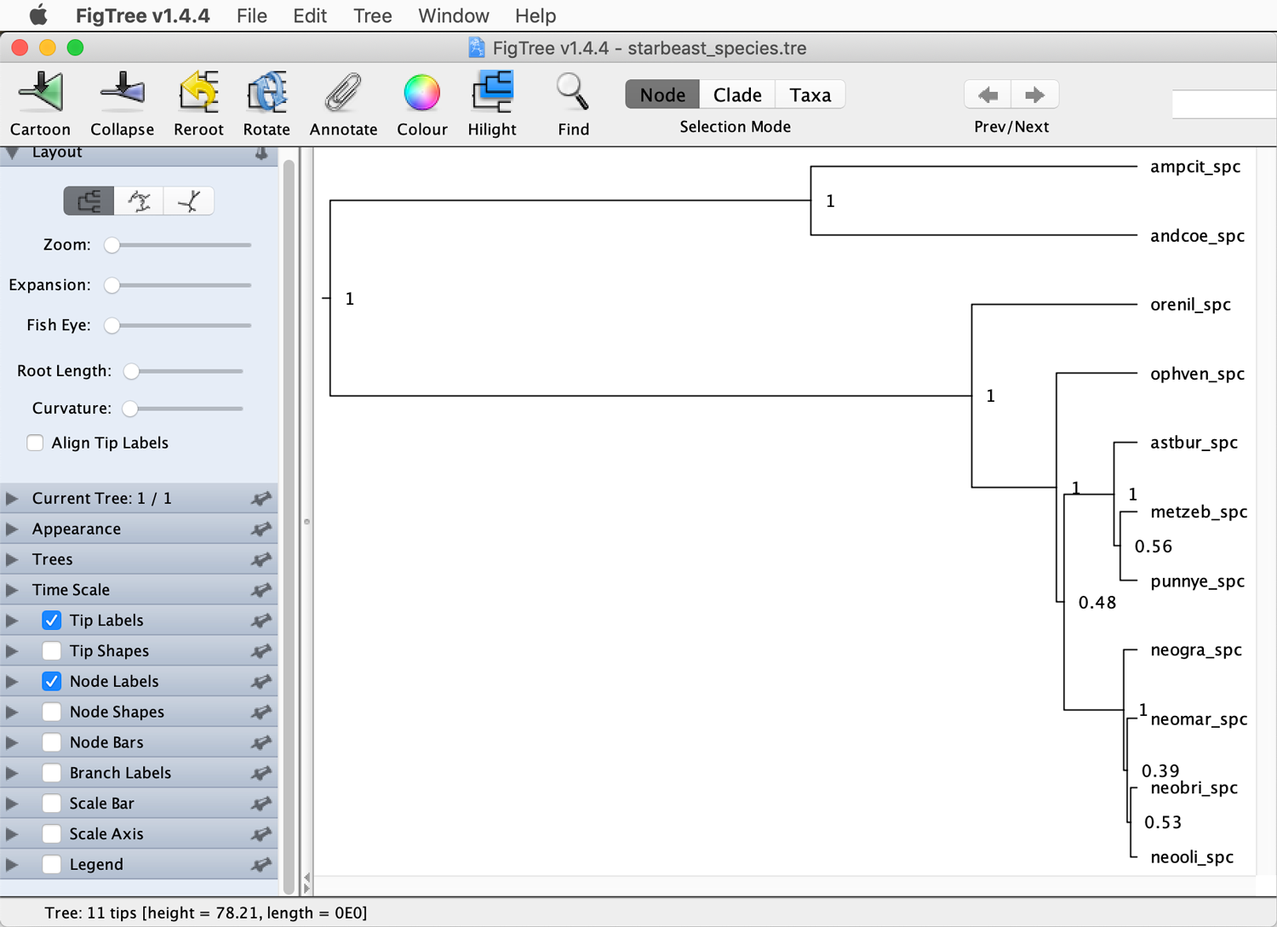
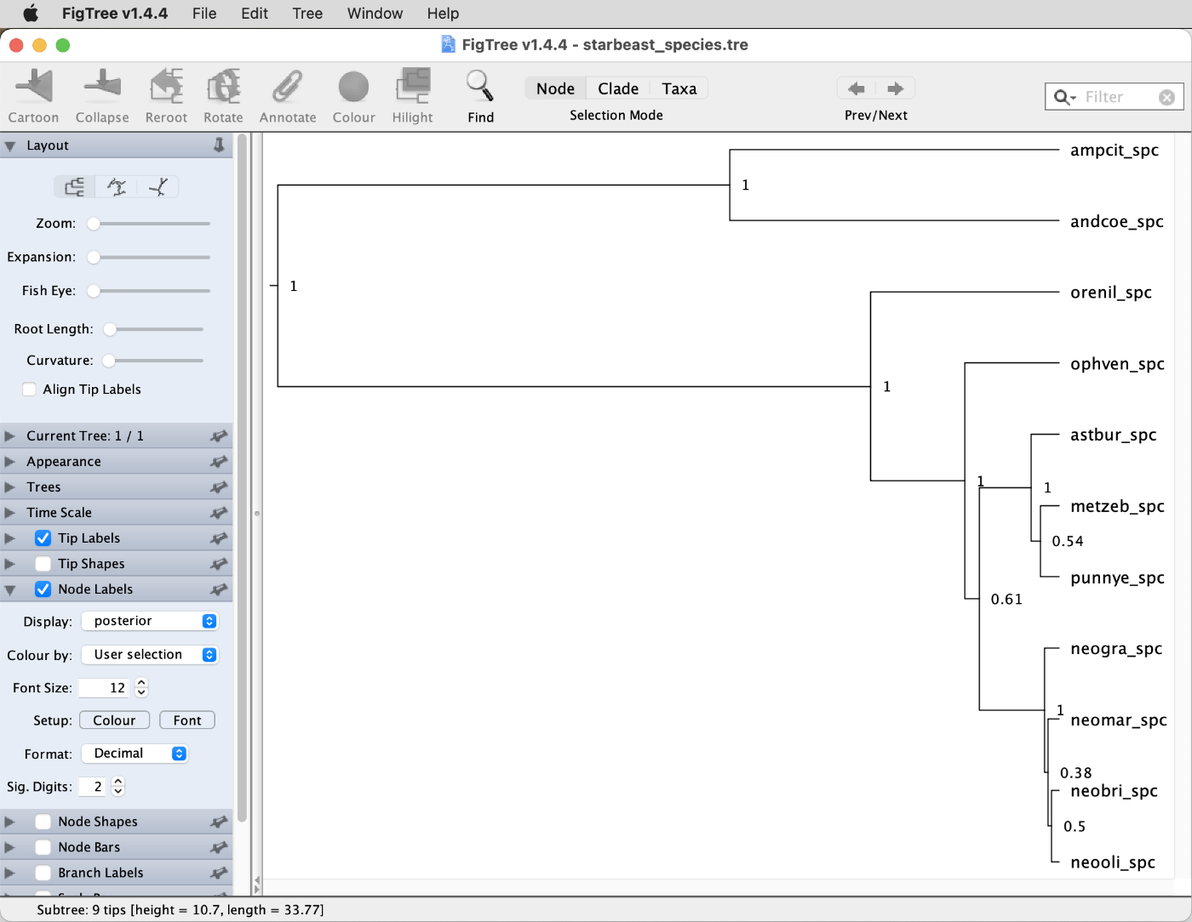
small updates

diff --git a/species_tree_inference_with_snp_data/README.md b/species_tree_inference_with_snp_data/README.md
@@ -18,12 +18,12 @@ Most methods for species-tree inference with the multi-species coalescent model 
 <a name="outline"></a>
 ## Outline
 
-In this tutorial I am going to present how to quickly infer the topology of the species tree from SNP data with the multi-species-coalescent model implemented in the software [SVDQuartets](https://www.asc.ohio-state.edu/kubatko.2/software/SVDquartets/) ([Chifman and Kubatko 2014](https://doi.org/10.1093/bioinformatics/btu530)), and how to assess node support with bootstrapping. The SNP dataset will first be filtered with [bcftools](http://www.htslib.org/doc/bcftools.html) ([Li 2011](https://doi.org/10.1093/bioinformatics/btr509)).
+In this tutorial I am going to present how to quickly infer the topology of the species tree from SNP data with the multi-species-coalescent model implemented in the software [SVDQuartets](https://www.asc.ohio-state.edu/kubatko.2/software/SVDquartets/) ([Chifman and Kubatko 2014](https://doi.org/10.1093/bioinformatics/btu530)), and how to assess node support with bootstrapping. The SNP dataset will first be filtered with [BCFtools](http://www.htslib.org/doc/bcftools.html) ([Li 2011](https://doi.org/10.1093/bioinformatics/btr509)).
 
 <a name="dataset"></a>
 ## Dataset
 
-The SNP data used in this tutorial (and in some of the following tutorials) is part of a recently published genomic dataset for Lake Tanganyika cichlid fishes ([Ronco et al. 2021](https://doi.org/10.1038/s41586-020-2930-4)). In this dataset, two individuals (a male and a female) of each cichlid species of Lake Tanganyika have been sequenced on the Illumina platform with a coverage around 10&times;, and read data of all sequenced individuals have been mapped against the Nile tilapia (*Oreochromis niloticus*) genome assembly ([Conte et al. 2017](https://doi.org/10.1186/s12864-017-3723-5)), which has been assembled at the chromosome level. Variant calling was then performed with the [Genome Analysis Toolkit (GATK)](https://software.broadinstitute.org/gatk/) ([McKenna et al. 2010](https://doi.org/10.1101/gr.107524.110)), and several filtering steps have been applied to remove low-quality genotypes and all indel variation. To reduce computational demands, the part of this dataset used in this tutorial is limited to SNP variation mapped to a single chromosome of Nile tilapia, chromosome 5, and it includes the genotypes of a set of 28 individuals of 14 different cichlid species. Most of these species represent the group that has already been included in the tutorial [Bayesian Species-Tree Inference](../bayesian_species_tree_inference/README.md) and [Local Assembly](../local_assembly/README.md), fishes of the genus *Neolamprologus* within the Lake Tanganyika tribe Lamprologini. Below is a list of all individuals and species included in the dataset of this tutorial.
+The SNP data used in this tutorial (and in some of the following tutorials) is part of a recently published genomic dataset for Lake Tanganyika cichlid fishes ([Ronco et al. 2021](https://doi.org/10.1038/s41586-020-2930-4)). In this dataset, two individuals (a male and a female) of each cichlid species of Lake Tanganyika have been sequenced on the Illumina platform with a coverage around 10&times;, and read data of all sequenced individuals have been mapped against the Nile tilapia (*Oreochromis niloticus*) genome assembly ([Conte et al. 2017](https://doi.org/10.1186/s12864-017-3723-5)), which has been assembled at the chromosome level. Variant calling was then performed with the [Genome Analysis Toolkit (GATK)](https://software.broadinstitute.org/gatk/) ([McKenna et al. 2010](https://doi.org/10.1101/gr.107524.110)), and several filtering steps have been applied to remove low-quality genotypes and all indel variation. As in tutorial [Whole-Genome Alignment](whole_genome_alignment/README.md), the dataset in this tutorial is limited to SNP variation mapped to a single chromosome of Nile tilapia, chromosome 5, to reduce computational demands. Here, this dataset includes the genotypes of a set of 28 individuals from 14 different cichlid species. Most of these species represent the group that has already been the focus of the tutorials [Bayesian Species-Tree Inference](../bayesian_species_tree_inference/README.md) and [Whole-Genome Alignment](whole_genome_alignment/README.md), fishes of the genus *Neolamprologus* within the Lake Tanganyika tribe Lamprologini. Below is a list of all individuals and species included in the dataset of this tutorial.
 
 <center>
 
@@ -69,13 +69,13 @@ This tutorial requires **FigTree** to be installed. Details about the installati
 
 The following tool is required additionally:
 
-* **PAUP\*:** The software [PAUP\*](http://paup.phylosolutions.com) is a general-utility program for phylogenetic inference into which the SVDQuartets method, allowing the inference of species trees from SNP data, has been implemented. PAUP\* is available as a Graphical User Interface (GUI) version, which may be easier to use for those not familiar with the program yet, but can not be used on Saga. If you prefer to use the GUI version of PAUP\*, you would thus need to install it on your local computer, and you would need download the input file for PAUP\* from Saga. Unfortunately, this GUI version does not run on MacOS 10.15 (Catalina) or newer, but on other systems, the program can be installed using the instructions and precompiled versions available on [http://phylosolutions.com/paup-test/](http://phylosolutions.com/paup-test/).
+* **PAUP\*:** The software [PAUP\*](http://paup.phylosolutions.com) is a general-utility program for phylogenetic inference into which the SVDQuartets method, allowing the inference of species trees from SNP data, has been implemented. PAUP\* is available as a graphical user interface (GUI) version, which may be easier to use for those not familiar with the program yet, but cannot be used on Saga. If you prefer to use the GUI version of PAUP\*, you would thus need to install it on your own computer, and you would need download the input file for PAUP\* from Saga. Unfortunately, this GUI version does not run on MacOS 10.15 (Catalina) or newer, but on other systems, the program can be installed using the instructions and precompiled versions available on [http://phylosolutions.com/paup-test/](http://phylosolutions.com/paup-test/).
 
 
 <a name="filtering"></a>
 ## SNP filtering
 
-The dataset of SNP variation for the above-listed 28 individuals of 14 Lake Tanganyika cichlid species is stored in in compressed variant-call format (VCF) in file `NC_031969.f5.sub1.vcf.gz`. To identify the SNPs most suitable for phylogenetic analysis, we will filter the information from this file with the program bcftools.
+The dataset of SNP variation for the above-listed 28 individuals of 14 Lake Tanganyika cichlid species is stored in compressed variant-call format (VCF) in file `NC_031969.f5.sub1.vcf.gz`. To identify the SNPs most suitable for phylogenetic analysis, we will filter the information from this file with the program BCFtools.
 
 * Add the file `NC_031969.f5.sub1.vcf.gz` to your current directory on Saga, either by copying it from `/cluster/projects/nn9458k/phylogenomics/week2/data` or by downloading it from GitHub, using one of the following two commands:
 
@@ -85,22 +85,21 @@ The dataset of SNP variation for the above-listed 28 individuals of 14 Lake Tang
 	
 		wget https://github.com/ForBioPhylogenomics/tutorials/raw/main/week2_data/NC_031969.f5.sub1.vcf.gz
 
-* As mentioned above, one of the species included in the dataset, *Neolamprologus cancellatus*, is presumed to be a hybrid species. As hybridization would represent a violation of the multi-species-coalescent model, we will here exclude the two individuals of this species ("LJC9" and "LJD1") from the dataset. To exclude the two individuals from the VCF file with bcftools, we can use the following commands:
+* As mentioned above, one of the species included in the dataset, *Neolamprologus cancellatus*, is presumed to be a hybrid species. As hybridization would represent a violation of the multi-species-coalescent model, we will here exclude the two individuals of this species ("LJC9" and "LJD1") from the dataset. To exclude the two individuals from the VCF file with BCFtools, we can use the following commands:
 
 		module purge
 		module load BCFtools/1.12-GCC-10.2.0
 		srun --ntasks=1 --mem-per-cpu=1G --time=00:01:00 --account=nn9458k --pty bcftools view -s ^LJC9,LJD1 -O z -o NC_031969.f5.sub2.vcf.gz NC_031969.f5.sub1.vcf.gz
 
-	In the above command, the option `-s` specifies a list of individual IDs to be included or excluded, and the `^` character at the beginning of this list specifies that the taxa should be excluded rather than included. In addition, `-O z` specifies that the output should be written in compressed VCF format, and `-o` specifies the name of the output file. All options of bcftools are described in the [bcftools online manual](http://www.htslib.org/doc/bcftools.html), and you can quickly access the general help text of bcftools or the more specific help text for its `view` command by typing only `bcftools` or `bcftools view`, respectively.
+	In the above command, the option `-s` specifies a list of individual IDs to be included or excluded, and the `^` character at the beginning of this list specifies that the taxa should be excluded rather than included. In addition, `-O z` specifies that the output should be written in compressed VCF format, and `-o` specifies the name of the output file. All options of BCFtools are described in the [BCFtools online manual](http://www.htslib.org/doc/bcftools.html), and you can quickly access the general help text of BCFtools or the more specific help text for its `view` command by typing only `bcftools` or `bcftools view`, respectively.
 	
 * To learn a bit about the dataset, you could browse through the first lines of the VCF file with the following command (without `srun`):
 
 		bcftools view NC_031969.f5.sub2.vcf.gz | less -S
-	
-		
-	As shown in the next screenshot, this command should print the very first part of the header of the VCF file, marked by the double "#" symbol at the beginning of each line. You'll see that the very first line specifies the version of the VCF file format, that other lines beginning with "ALT", "FILTER", "FORMAT", and "INFO" describe the annotation of the records and genotypes, and that the lengths of various contigs are defined. Because all variation of this file was mapped to the tilapia genome assembly, these "contigs" represent the chromosomes of the Nile tilapia genome.<p align="center"><img src="img/terminal1.png" alt="Terminal" width="700"></p>
 
-* If you scroll down a few lines, you should see the information shown in the screenshot below. You should see that a single line begins with a single "#" symbol; this line specifies the content of each column in the table below it (note that the tab-delimited columns may be shifted between this line and the lines below). Towards the right on that line, you'll see the first of the individual IDs ("IZA1", "IZC5", "AUE7",...), but the corresponding genotypes may not be visible yet in the lines below it because the fields with format information (the first of which begins with "AC=2;AF=0.004695;AN=36;BaseQRankSum=1.085;...") extend to the right end of the screen. These fields contain some information that we will use for filtering, including the total number of called alleles ("AN") and the total number of called non-reference alleles ("AC").<p align="center"><img src="img/terminal2.png" alt="Terminal" width="700"></p>
+	As shown in the next screenshot, this command should print the very first part of the header of the VCF file, marked by the double "#" symbol at the beginning of each line. You'll see that the very first line specifies the version of the VCF file format, that other lines beginning with "ALT", "FILTER", "FORMAT", and "INFO" describe the annotation of the records and genotypes, and that the lengths of various contigs are defined. Because all variation of this file was mapped to the Nile tilapia genome assembly, these "contigs" represent the Nile tilapia chromosomes.<p align="center"><img src="img/terminal1.png" alt="Terminal" width="700"></p>
+
+* If you scroll down a few lines, you'll find the information shown in the screenshot below. You should see that a single line begins with only one "#" symbol; this line specifies the content of each column in the table below it (note that the tab-delimited columns may appear shifted between this line and the lines below). Towards the right on that line, you'll see the first of the individual IDs ("IZA1", "IZC5", "AUE7",...), but the corresponding genotypes may not be visible yet in the lines below it because the fields with format information (the first of which begins with "AC=2;AF=0.004695;AN=36;BaseQRankSum=1.085;...") extend to the right end of the screen. These fields contain some information that we will use for filtering, including the total number of called alleles ("AN") and the total number of called non-reference alleles ("AC").<p align="center"><img src="img/terminal2.png" alt="Terminal" width="700"></p>
 	
 	**Question 1:** How far, approximately, is the spacing between SNPs? [(see answer)](#q1)
 	
@@ -112,7 +111,7 @@ The dataset of SNP variation for the above-listed 28 individuals of 14 Lake Tang
 
 		bcftools view -H NC_031969.f5.sub2.vcf.gz | wc -l
 				
-* We will now generate a reduced version of the dataset that includes only the most suitable SNPs for phylogenetic analysis. This means that we exclude all sites at which no alternative alleles are called for any of the individuals ("AC==0"), all sites at which only alternative alleles are called ("AC==AN"), and sites at which the proportion of missing data is greater than 20% ("F_MISSING > 0.2"). At the same time, we will ensure that only bi-allelic SNPs are included in the reduced dataset by using the bcftools options `-m2` and `-M2` which set both the minimum (`-m`) and maximum (`-M`) number of alleles to 2. Thus, use the following bcftools command to write the reduced dataset to a new file named `NC_031969.f5.sub3.vcf.gz`:
+* We will now generate a reduced version of the dataset that includes only the most suitable SNPs for phylogenetic analysis. This means that we exclude all sites at which no alternative alleles are called for any of the individuals ("AC==0"), all sites at which only alternative alleles are called ("AC==AN"), and sites at which the proportion of missing data is greater than 20% ("F_MISSING > 0.2"). At the same time, we will ensure that only bi-allelic SNPs are included in the reduced dataset by using the BCFtools options `-m2` and `-M2` which set both the minimum (`-m`) and maximum (`-M`) number of alleles to 2. Thus, use the following BCFtools command to write the reduced dataset to a new file named `NC_031969.f5.sub3.vcf.gz`:
 
 		srun --ntasks=1 --mem-per-cpu=1G --time=00:01:00 --account=nn9458k --pty bcftools view -e 'AC==0 || AC==AN || F_MISSING > 0.2' -m2 -M2 -O z -o NC_031969.f5.sub3.vcf.gz NC_031969.f5.sub2.vcf.gz
 
@@ -120,11 +119,11 @@ The dataset of SNP variation for the above-listed 28 individuals of 14 Lake Tang
 
 	**Question 2:** How many SNPs were removed in the last step? [(see answer)](#q2)
 		
-* As we've seen above, some SNPs in file `NC_031969.f5.sub2.vcf.gz` were too close to each other on the chromosome to be considered independent markers. Some of these might have been removed in the last filtering step. Nevertheless, to ensure that no SNPs are closer to each other than a minimum distance of 100 bp, we can use the `prune` function of bcftools:
+* As we've seen above, some SNPs in file `NC_031969.f5.sub2.vcf.gz` were too close to each other on the chromosome to be considered independent markers. Some of these might have been removed in the last filtering step. Nevertheless, to ensure that no SNPs are closer to each other than a minimum distance of 100 bp, we can use the `prune` function of BCFtools:
 	
 		srun --ntasks=1 --mem-per-cpu=1G --time=00:01:00 --account=nn9458k --pty bcftools +prune -w 100bp -n 1 -N 1st -o NC_031969.f5.sub4.vcf NC_031969.f5.sub3.vcf.gz
 
-The filtered dataset in file `NC_031969.f5.sub4.vcf` should now contain 65,325 SNPs. Thus, a bit more than every second SNP have been removed in this step.
+The filtered dataset in file `NC_031969.f5.sub4.vcf` should now contain 65,325 SNPs. Thus, a bit more than every second SNP have been removed in this last step.
 		
 <a name="svdquartets"></a>
 ## Species-tree inference with SVDQuartets
@@ -153,9 +152,9 @@ The dataset is now sufficiently filtered for analysis with SVDQuartets. However,
 		
 	Note that heterozygous sites have been coded with [IUPAC ambiguity codes](https://en.wikipedia.org/wiki/Nucleic_acid_notation), so that for example a "C/T" allele has been replace with the letter "Y". While many phylogenetic algorithms can not deal with this ambiguity information, SVDQuartets will automatically recognize that both alleles are present heterozygously in the individual and will consider both in its calculations of the SVD score.
 
-* If you have the PAUP\* GUI installed on your local computer, you can use the following steps to run a first SVDQuartets analysis:
+* If you have the PAUP\* GUI installed on your own computer, you can use the following steps to run a first SVDQuartets analysis (if not, scroll down to the next black bullet point):
 
-	* Download file `NC_031969.f5.sub4.nex` from Saga to your local computer using `scp`.
+	* Download file `NC_031969.f5.sub4.nex` from Saga to your own computer using `scp`.
 
 	* Open the Nexus file `NC_031969.f5.sub4.nex` in PAUP\*, and make sure that the option "Execute" is set in the opening dialog, as shown in the next screenshot.<p align="center"><img src="img/paup1.png" alt="PAUP\*" width="700"></p>
 
@@ -197,11 +196,13 @@ The dataset is now sufficiently filtered for analysis with SVDQuartets. However,
 
 			svdQuartets
 
+		This analysis should only take a few seconds, and then output the tree on the screen.
+
 	* Quit the interactive PAUP\* session with `quit`.
 
 	**Question 3:** Do the two individuals of each species cluster monophyletically? Use the table in the [Dataset](#dataset) section to find out. [(see answer)](#q3)
 
-* In a second analysis with SVDQuartets, we are going to specify which individuals come from the same species, so that SVDQuartets can use this information to estimate a tree with species as taxa. To specify this information, write the following text to a file named `taxpartitions.txt` (either on your local computer or on Saga, depending on whether you use the PAUP\* GUI or its command-line version): 
+* In a second analysis with SVDQuartets, we are going to specify which individuals come from the same species, so that SVDQuartets can use this information to estimate a tree with species as taxa. To specify this information, write the following text to a file named `taxpartitions.txt` (either on your own computer or on Saga, depending on whether you use the PAUP\* GUI or its command-line version): 
 		
 		BEGIN SETS;
 			TAXPARTITION SPECIES =
@@ -224,7 +225,7 @@ The dataset is now sufficiently filtered for analysis with SVDQuartets. However,
 		
 * The alignment file `NC_031969.f5.sub4.nex` and the file `taxpartitions.txt` that was written in the last step then need to be combined into a single file in Nexus format.
 
-	* If you do this on your local computer, just open both files in a text editor and copy-paste the content of file `taxpartitions.txt` at the end of file `NC_031969.f5.sub4.nex`; then save this as a new file named `NC_031969.f5.sub4.parts.nex`.
+	* If you do this on your own computer, just open both files in a text editor and copy-paste the content of file `taxpartitions.txt` at the end of file `NC_031969.f5.sub4.nex`; then save this as a new file named `NC_031969.f5.sub4.parts.nex`.
 
 	* If you do this on Saga, use `cat` to combine the two files:
 
@@ -262,6 +263,8 @@ The dataset is now sufficiently filtered for analysis with SVDQuartets. However,
 	* Start the SVDQuartets analysis again with PAUP\*'s `svdQuartets` command
 	
 			svdQuartets taxpartition=SPECIES bootstrap=standard nthreads=6
+			
+		Due to the invoked bootstrapping, this analysis may now take a few minutes.
 
 	* Save the inferred tree with branch labels:
 
@@ -269,13 +272,15 @@ The dataset is now sufficiently filtered for analysis with SVDQuartets. However,
 
 	* Quit the interactive PAUP\* session with `quit`.
 
-	* Download the tree file `NC_031969.f5.sub4.parts.tre` from Saga to your local computer using `scp`.
+	* Download the tree file `NC_031969.f5.sub4.parts.tre` from Saga to your own computer using `scp`.
+
+* When you open the species tree inferred with SVDQuartets in FigTree, it should appear as shown in the next screenshot.<p align="center"><img src="img/figtree1.png" alt="PAUP\*" width="700"></p>
 
 	**Question 4:** Does the species tree inferred by SVDQuartets appear reliable? [(see answer)](#q4)
 	
 	**Question 5:** Is this species tree concordant with the tree generated based on the multi-species coalescent model in tutorial [Bayesian Species-Tree Inference](../bayesian_species_tree_inference/README.md)? [(see answer)](#q5)
 
-* When you open the species tree inferred with SVDQuartets in FigTree, it should appear as shown in the next screenshot.<p align="center"><img src="img/figtree1.png" alt="PAUP\*" width="700"></p> The species tree reveals that the divergence of the four *Neolamprologus* species included in tutorial [Bayesian Species-Tree Inference](../bayesian_species_tree_inference/README.md) (*Neolamprologus brichardi*, *Neolamprologus gracilis*, *Neolamprologus marunguensis*, and *Neolamprologus olivaceous*) did not represent the most basal divergences within the tribe Lamprologini and also not within the genus *Neolamprologus*. Instead, several lineages within *Neolamprologus* (*N. walteri*, *N. chitamwebwai*, and *N. savoryi*) as well as representatives of other genera within Lamprologini (*Altolamprologus fasciatus* and *Telmatochromis vittatus*) are all outgroups to the four species used in the other tutorial.
+The species tree reveals that the divergence of the four *Neolamprologus* species included in tutorial [Bayesian Species-Tree Inference](../bayesian_species_tree_inference/README.md) (*Neolamprologus brichardi*, *Neolamprologus gracilis*, *Neolamprologus marunguensis*, and *Neolamprologus olivaceous*) did not represent the most basal divergences within the tribe Lamprologini and also not within the genus *Neolamprologus*. Instead, several lineages within *Neolamprologus* (*N. walteri*, *N. chitamwebwai*, and *N. savoryi*) as well as representatives of other genera within Lamprologini (*Altolamprologus fasciatus* and *Telmatochromis vittatus*) are all outgroups to the four species used in the other tutorial.
 
 <br><hr>
 
@@ -310,4 +315,4 @@ The dataset is now sufficiently filtered for analysis with SVDQuartets. However,
 
 <a name="q5"></a>
 
-* **Question 5:** In tutorial [Bayesian Species-Tree Inference](../bayesian_species_tree_inference/README.md), a species tree was inferred with StarBEAST2 based on sequence data from twelve genes and eleven cichlid species. Of these species, four are also included in the species tree produced here with SVDQuartets, these are *Neolamprologus brichardi* ("neobri"), *Neolamprologus gracilis* ("neogra"), *Neolamprologus marunguensis* ("neomar"), and *Neolamprologus olivaceous* ("neooli"). The relationship of these four species received moderate support in the species tree resulting from the SVDQuartets analysis: *Neolamprologus brichardi* ("neobri") and *Neolamprologus olivaceous* ("neooli") are the most closely related of the four species, with a bootstrap support of 79. The support for the clustering of this pair of species with *Neolamprologus gracilis* ("neogra") receives a similarly strong bootstrap support of 95. The sister-group relationship of the two species *Neolamprologus brichardi* ("neobri\_spc") and *Neolamprologus olivaceous* ("neooli\_spc") was also recovered with the StarBEAST2 analysis (shown in the screenshot below), albeit only with a low Bayesian posterior probability of 0.53. But in contrast to the SVDQuartets species tree, *Neolamprologus marunguensis* ("neomar_spc") instead of *Neolamprologus gracilis* ("neogra\_spc") appeared as the next-closest species in the species tree estimated by StarBEAST2, again with a very low Bayesian posterior probability of 0.39. Thus, while the two topologies are in conflict with each other, the topology inferred with StarBEAST2 did not receive strong support and may thus be incorrect. This difference in the degree of support between the two analyses is not surprising, given that we used a dataset of over 60,000 SNPs for SVDQuartets but only 12 sequence alignments with StarBEAST2. <p align="center"><img src="img/figtree2.png" alt="PAUP\*" width="700"></p>
+* **Question 5:** In tutorial [Bayesian Species-Tree Inference](../bayesian_species_tree_inference/README.md), a species tree was inferred with StarBeast3 based on sequence data from twelve genes and eleven cichlid species. Of these species, four are also included in the species tree produced here with SVDQuartets, these are *Neolamprologus brichardi* ("neobri"), *Neolamprologus gracilis* ("neogra"), *Neolamprologus marunguensis* ("neomar"), and *Neolamprologus olivaceous* ("neooli"). The relationship of these four species received moderate support in the species tree resulting from the SVDQuartets analysis: *Neolamprologus brichardi* ("neobri") and *Neolamprologus olivaceous* ("neooli") are the most closely related of the four species, with a bootstrap support of 83. The support for the clustering of this pair of species with *Neolamprologus gracilis* ("neogra") receives a similarly strong bootstrap support of 93. The sister-group relationship of the two species *Neolamprologus brichardi* ("neobri\_spc") and *Neolamprologus olivaceous* ("neooli\_spc") was also recovered with the StarBeast3 analysis (shown in the screenshot below), albeit only with a low Bayesian posterior probability of 0.5. But in contrast to the SVDQuartets species tree, *Neolamprologus marunguensis* ("neomar_spc") instead of *Neolamprologus gracilis* ("neogra\_spc") appeared as the next-closest species in the species tree estimated by StarBeast3, again with a very low Bayesian posterior probability of 0.38. Thus, while the two topologies are in conflict with each other, the topology inferred with StarBeast3 did not receive strong support and may thus be incorrect. This difference in the degree of support between the two analyses is not surprising, given that we used a dataset of over 60,000 SNPs for SVDQuartets but only 12 sequence alignments with StarBeast3. <p align="center"><img src="img/figtree2.png" alt="PAUP\*" width="700"></p>

diff --git a/whole_genome_alignment/README.md b/whole_genome_alignment/README.md
@@ -171,7 +171,7 @@ One of the most common approaches for repeat masking is to create a species spec
 		mkdir cichlid_assemblies_masked
 		for fasta in cichlid_assemblies/*.fasta
 		do
-			fasta_id=`basename ${fasta$.fasta}`
+			fasta_id=`basename ${fasta%.fasta}`
 			masked_fasta=cichlid_assemblies_masked/${fasta_id}
 			log=run_red.${fasta_id}.out
 			sbatch -o ${log} run_red.slurm ${fasta} ${masked_fasta}
@@ -181,7 +181,7 @@ One of the most common approaches for repeat masking is to create a species spec
 
 		bash run_red.sh
 
-	This should take between 20 and 40 minutes to finish. But since the next part of this tutorial does not use the softmasked assemblies produced by Red, you can already continue with this next part. Nevertheless, if you should be unable to run Red for some reason, you can also obtain prepared softmasked assemblies from `/cluster/projects/nn9458k/phylogenomics/cichlid_assemblies_masked`:
+	This should take between 30 and 90 minutes to finish. But since the next steps do not use the softmasked assemblies produced by Red, you can already continue with the tutorial. Nevertheless, if you should be unable to run Red for some reason, you can also obtain prepared softmasked assemblies from `/cluster/projects/nn9458k/phylogenomics/cichlid_assemblies_masked`:
 
 		cp -r /cluster/projects/nn9458k/phylogenomics/cichlid_assemblies_masked .
 
@@ -272,10 +272,10 @@ So far, no data subsetting has taken place. Instead, we only mapped all contigs 
 		paf=${1}
 
 		# Identify ids of contigs mapping to chromosome 5 of orenil.
-		grep NC_031970.2 ${paf} \    # Keep only lines that contain the ID of chromosome 5
-		  | awk '$12 > 50' \         # Keep only lines with an alignment quality is above 50
-		  | awk '$11 > 5000' \       # Keep only lines with an alignment length above 5000
-		  | cut -f 1 \               # Keep only the first column of remaining lines
+		grep NC_031970.2 ${paf} \
+		  | awk '$12 > 50' \
+		  | awk '$11 > 5000' \
+		  | cut -f 1 \
 		  | sort -u > ${paf%.paf}_chr5_contig_ids.txt
 
 * Then, submit the Slurm script `identify_contigs_from_paf.sh` five times, with each PAF-format file as input:
@@ -290,7 +290,11 @@ So far, no data subsetting has taken place. Instead, we only mapped all contigs 
 
 	**Question 2:** How many contigs map to chromosome 5 of *Oreochromis niloticus* ("orenil"), per species? [(see answer)](#q2)
 
-As a next step, we'll need to extract those contigs from each of the *Neolamprologus* genomes that map to chromosome 5 of *Oreochromis niloticus* ("orenil"). We will do this with the [SeqTK](https://github.com/lh3/seqtk) toolkit by Heng Li. And importantly, we'll extract the contigs from the softmasked versions of the genome assemblies.
+As a next step, we'll need to extract those contigs from each of the *Neolamprologus* genomes that map to chromosome 5 of *Oreochromis niloticus* ("orenil"). We will do this with the [SeqTK](https://github.com/lh3/seqtk) toolkit by Heng Li. And importantly, we'll extract the contigs from the softmasked versions of the genome assemblies; thus, it is important that the Red analyses have finished before continuing.
+
+* If Red jobs have not finished, cancel them (with `scancel`, followed by the job ID), and copy the prepared output files from `/cluster/projects/nn9458k/phylogenomics/cichlid_assemblies_masked`:
+
+		cp /cluster/projects/nn9458k/phylogenomics/cichlid_assemblies_masked .
 
 * Copy the Slurm script `identify_contigs_from_paf.slurm` to a new file named `extract_identified_contigs.slurm`:
 
